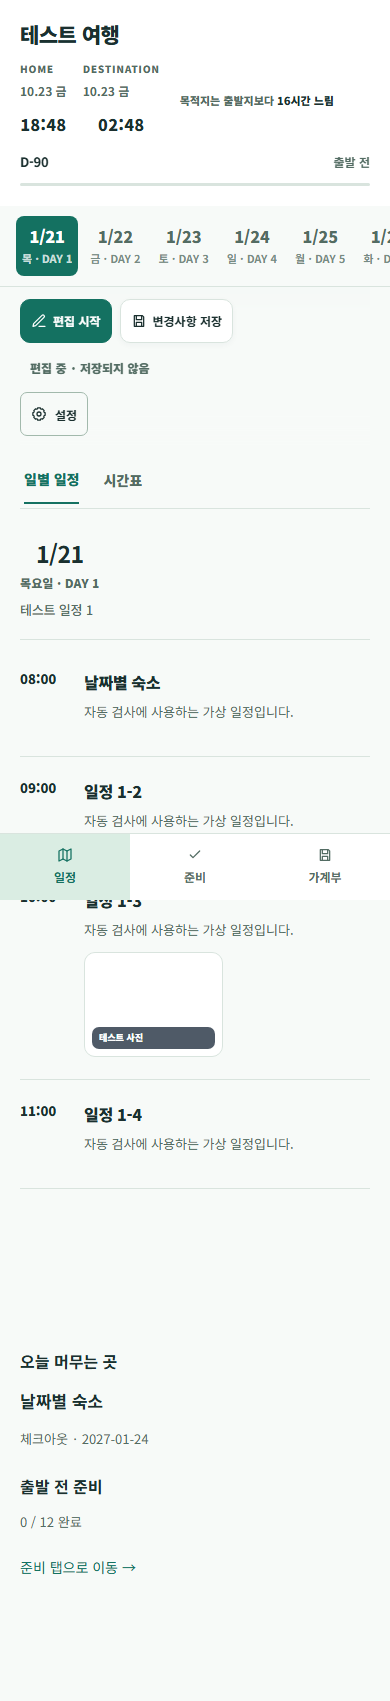
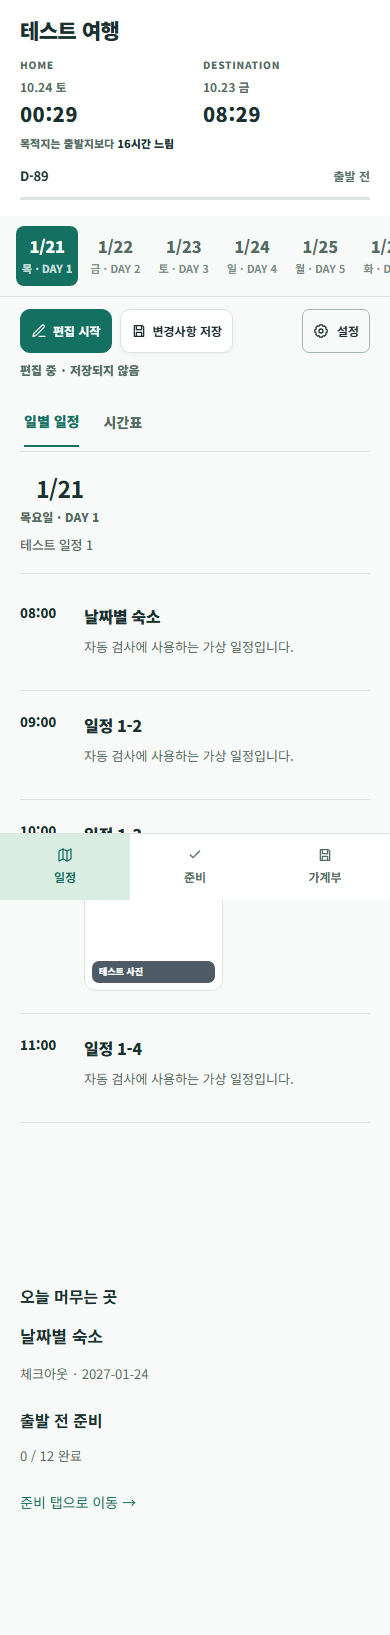
fix: repair Daylight mobile layouts

diff --git a/ui-preview/daylight-after.html b/ui-preview/daylight-after.html
@@ -1,6 +1,6 @@
 <!doctype html>
 <html lang="ko" data-offline="true" data-theme-scope="/daylight-compare/a2c796346162/after/">
-<head><meta name="robots" content="noindex,nofollow"><meta name="comparison-source" content="746c729d28bb"><meta name="comparison-fixture" content="a2c796346162">
+<head><meta name="robots" content="noindex,nofollow"><meta name="comparison-source" content="c0b5de5e73e7"><meta name="comparison-fixture" content="a2c796346162">
 <meta charset="utf-8">
 <meta name="viewport" content="width=device-width,initial-scale=1,viewport-fit=cover">
 <meta name="theme-color" content="#142b3d">
@@ -872,7 +872,7 @@ body>header::before,body>header::after,.hero-shell::before,.hero-shell::after{di
 .money-total strong,.money-total small{color:var(--ink)}.money-total small{font-size:12px;font-weight:600}
 .expense-entry .add-expense{background:none;border:0;padding:0;box-shadow:none}
 .add-expense label>span,.expense-filters label>span,.exchange-rate-updated,.exchange-rate>span,.category-total small,.expense-filter-summary{font-size:12px}
-.daylight-settings{order:9;margin-left:0}.editor-bar #status{order:8}.editor-bar #themeStorageStatus{order:10;flex-basis:100%}
+.daylight-settings{order:7;margin-left:auto}.editor-bar #status{order:8}.editor-bar #themeStorageStatus{order:10;flex-basis:100%}
 @media(max-width:1100px){.daylight-content:has(.daylight-priority)>#daylightContext{order:-1;display:block}}
 .timeline-row>.card{grid-column:2}.timeline-row>.time{text-align:left}
 .editing .timeline-row{grid-template-columns:72px minmax(0,1fr)}
@@ -882,12 +882,45 @@ body>header,.hero-shell{background-image:none;text-shadow:none}
 .title{text-shadow:none}.time-gap strong,.time-gap b{color:var(--ink)}
 .day-head h2{border:0;border-radius:0}.day-head p,.checklist label{font-weight:500}.checklist h3{letter-spacing:0;text-transform:none;font-weight:650;font-size:15px}.editor-bar .primary{box-shadow:none}
 @media(min-width:621px) and (max-width:1100px){.expense-entry .add-expense{grid-template-columns:repeat(2,minmax(0,1fr))}.expense-entry .add-expense>label{grid-column:auto}.expense-entry .add-expense>.btn{grid-column:1/-1}.expense-filters{grid-template-columns:repeat(2,minmax(0,1fr))}.expense-filters>label{grid-column:auto}.money-totals{grid-template-columns:repeat(2,minmax(0,1fr))}}
+/* Keep Daylight layout independent of the earlier legacy mobile layers. */
+.expense-entry .add-expense>.btn,.expense-filters button{display:flex;align-items:center;justify-content:center;gap:8px;min-height:44px;box-shadow:none}
+.expense-primary b{white-space:normal;overflow-wrap:anywhere}
+.expense-action{min-width:44px;min-height:44px;height:auto}
+@media(max-width:1100px){
+ .expense{grid-template-columns:minmax(0,1fr)}
+ .expense-primary{grid-template-columns:88px minmax(0,1fr)}
+ .expense-side{min-width:0;flex-wrap:wrap;justify-content:space-between;gap:10px 16px}
+ .expense .expense-amount{min-width:0;text-align:left;overflow-wrap:anywhere}
+ .expense-actions{flex-wrap:wrap;gap:6px;margin-left:auto}
+}
+@media(max-width:620px){
+ body>header{padding:calc(16px + env(safe-area-inset-top)) 20px 16px}
+ .world-clocks{display:grid;grid-template-columns:repeat(2,minmax(0,1fr));align-items:start;gap:8px 16px}
+ .world-clock{flex-direction:column;align-items:flex-start;gap:4px}
+ .world-clock-copy small,.world-clock-copy span{white-space:normal;overflow-wrap:anywhere}
+ .world-clock time{font-size:20px;line-height:1.3}
+ .time-gap{grid-column:1/-1;white-space:normal;text-align:left;padding:0;line-height:1.5}
+ .editor-bar #status{padding:0;line-height:1.5}
+ .daylight-content{padding-top:8px}
+ .expense-entry,.exchange-rate,.expenses-section,.budget-overview,.money-totals{margin-left:0;margin-right:0}
+ .expense-entry .add-expense{grid-template-columns:minmax(0,1fr);gap:12px}
+ .expense-entry .add-expense>label,.expense-entry .add-expense>.btn{grid-column:1;min-width:0}
+ .expense-entry .add-expense input,.expense-entry .add-expense select,.expense-filters input,.expense-filters select{min-width:0;font-size:16px;min-height:44px}
+ .expense-entry .amount-with-currency{grid-template-columns:minmax(0,1fr) 88px}
+ .expense{padding:16px}
+ .expense-primary{display:block}
+ .expense-primary b{display:block;line-height:1.55}
+ .expense-category-badge{margin-top:6px}
+ .expense-side{align-items:flex-start}
+ .expense .expense-amount{flex-basis:100%;font-size:16px}
+ .expense-actions{width:100%;justify-content:flex-end}
+}
 @media print{.panel{background:#fff}body{padding:0;background:white}body::before,.daylight-nav,.daylight-settings,#daylightContext{display:none}.daylight-content{display:block;padding:0}.daylight-content main{width:100%;padding:0}.timeline-row{break-inside:avoid}.day-head{break-after:avoid}.checklist label[data-check-important="true"]>span:first-of-type::before{color:#222}}
 
 </style>
 </head>
 <body class="viewing hydrating">
-<header><div class="hero-shell"><div class="theme-toolbar"><div class="theme-choice"><label for="themeSelect">화면 테마</label><select id="themeSelect" aria-describedby="themeStorageStatus"><option value="light">밝게</option><option value="dark">어둡게</option><option value="system">기기 설정</option></select></div><p id="themeStorageStatus" role="status" hidden></p></div><div class="hero-top"><div class="hero-copy"><span class="hero-kicker">TRIP PLANNER</span><h1 class="title">여행 일정</h1></div><div class="hero-meta"><div class="hero-meta-card hero-meta-dates"><small>TRAVEL DATES</small><strong>여행 기간</strong></div><div class="hero-meta-card"><small>ROUTE</small><strong>여행 경로</strong></div></div></div><div class="world-clocks" aria-label="두 지역 현재 시각"><div class="world-clock"><div class="world-clock-copy"><small>HOME</small><span id="homeDate">날짜 계산 중</span></div><time id="homeClock">--:--</time></div><div class="world-clock"><div class="world-clock-copy"><small>DESTINATION</small><span id="destinationDate">날짜 계산 중</span></div><time id="destinationClock">--:--</time></div><div class="time-gap" id="timeGap">시차 계산 중</div></div><div class="trip-progress" id="tripProgress"><div class="trip-progress-head"><strong id="tripProgressLabel">여행 준비 중</strong><span id="tripProgressMeta">일정을 계산하고 있습니다.</span></div><div class="trip-progress-track" aria-label="여행 진행률" aria-valuemin="0" aria-valuemax="100" aria-valuenow="0" role="progressbar"><i id="tripProgressFill"></i></div></div></div></header><div class="artifact-banner"><strong>Daylight · 비교용 예시</strong><span>편집은 이 비교본에만 보관됩니다.</span><small>7ba5285 · 746c729d28bb · 예시 a2c796346162</small></div>
+<header><div class="hero-shell"><div class="theme-toolbar"><div class="theme-choice"><label for="themeSelect">화면 테마</label><select id="themeSelect" aria-describedby="themeStorageStatus"><option value="light">밝게</option><option value="dark">어둡게</option><option value="system">기기 설정</option></select></div><p id="themeStorageStatus" role="status" hidden></p></div><div class="hero-top"><div class="hero-copy"><span class="hero-kicker">TRIP PLANNER</span><h1 class="title">여행 일정</h1></div><div class="hero-meta"><div class="hero-meta-card hero-meta-dates"><small>TRAVEL DATES</small><strong>여행 기간</strong></div><div class="hero-meta-card"><small>ROUTE</small><strong>여행 경로</strong></div></div></div><div class="world-clocks" aria-label="두 지역 현재 시각"><div class="world-clock"><div class="world-clock-copy"><small>HOME</small><span id="homeDate">날짜 계산 중</span></div><time id="homeClock">--:--</time></div><div class="world-clock"><div class="world-clock-copy"><small>DESTINATION</small><span id="destinationDate">날짜 계산 중</span></div><time id="destinationClock">--:--</time></div><div class="time-gap" id="timeGap">시차 계산 중</div></div><div class="trip-progress" id="tripProgress"><div class="trip-progress-head"><strong id="tripProgressLabel">여행 준비 중</strong><span id="tripProgressMeta">일정을 계산하고 있습니다.</span></div><div class="trip-progress-track" aria-label="여행 진행률" aria-valuemin="0" aria-valuemax="100" aria-valuenow="0" role="progressbar"><i id="tripProgressFill"></i></div></div></div></header><div class="artifact-banner"><strong>Daylight · 비교용 예시</strong><span>편집은 이 비교본에만 보관됩니다.</span><small>5c68244 · c0b5de5e73e7 · 예시 a2c796346162</small></div>
 <script id="tripThemeControls">document.dispatchEvent(new Event('trip-theme-controls-ready'));</script>
 <nav class="tabs" aria-label="여행 날짜"></nav>
 <div class="editor-bar"><button class="primary" data-icon="edit" id="editBtn">편집 시작</button><button class="mode-only edit-only" data-icon="undo" id="undoBtn" disabled>실행 취소</button><button class="mode-only edit-only" data-icon="redo" id="redoBtn" disabled>다시 실행</button><button class="mode-only edit-only" data-icon="plus" id="addTimeBtn">일정 시간 추가</button><button class="mode-only edit-only" data-icon="check" id="addCheckBtn">체크 항목 추가</button><button class="mode-only edit-only danger" data-icon="reset" id="resetBtn">초기화</button><button class="mode-only view-only" data-icon="save" id="saveBtn" disabled>변경사항 저장</button><button class="mode-only view-only online-only" data-icon="upload" id="importBtn" title="오프라인 작업본을 최신 저장본과 비교해 초안으로 불러옵니다.">편집본 불러오기</button><button class="mode-only view-only" data-icon="export" id="exportMenuBtn">내보내기</button><button class="mode-only view-only online-only" data-icon="history" id="versionsBtn">버전 관리</button><button class="session-only" data-icon="logout" id="logoutBtn" type="button">로그아웃</button><button class="operation-only danger" data-icon="reset" id="cancelOperationBtn" type="button">작업 취소</button><span id="status" class="chip" role="status" aria-live="polite">보기 모드</span><input accept="text/html,.html" id="importFileInput" type="file" hidden></div>
@@ -972,7 +1005,7 @@ body>header,.hero-shell{background-image:none;text-shadow:none}
 </section>
 <section class="notice-dialog" id="timetableDetail" hidden aria-modal="true" aria-labelledby="timetableDetailTitle" role="dialog"><div class="notice-card tt-detail-card"><div class="tt-detail-head"><div><small id="timetableDetailMeta"></small><h2 id="timetableDetailTitle"></h2></div><button type="button" id="timetableDetailClose">닫기</button></div><p id="timetableDetailTiming"></p><div class="tt-detail-content" id="timetableDetailContent"></div></div></section>
 <div class="daylight-content"><main id="tripMain" aria-busy="true"></main><aside id="daylightContext" aria-label="여행 확인 사항" hidden></aside></div>
[2 lines of base64/hex data omitted]
 
 <script id="offlineEmbeddedState" type="application/json">null</script>
 <script id="tripAppV4">

diff --git a/ui-preview/daylight-candidate.html b/ui-preview/daylight-candidate.html
@@ -1,6 +1,6 @@
 <!doctype html>
-<html lang="ko" data-offline="true" data-offline-id="746c729d28bb">
-<head><meta name="robots" content="noindex,nofollow"><meta name="daylight-source" content="746c729d28bb">
+<html lang="ko" data-offline="true" data-offline-id="c0b5de5e73e7">
+<head><meta name="robots" content="noindex,nofollow"><meta name="daylight-source" content="c0b5de5e73e7">
 <meta charset="utf-8">
 <meta name="viewport" content="width=device-width,initial-scale=1,viewport-fit=cover">
 <meta name="theme-color" content="#142b3d">
@@ -872,7 +872,7 @@ body>header::before,body>header::after,.hero-shell::before,.hero-shell::after{di
 .money-total strong,.money-total small{color:var(--ink)}.money-total small{font-size:12px;font-weight:600}
 .expense-entry .add-expense{background:none;border:0;padding:0;box-shadow:none}
 .add-expense label>span,.expense-filters label>span,.exchange-rate-updated,.exchange-rate>span,.category-total small,.expense-filter-summary{font-size:12px}
-.daylight-settings{order:9;margin-left:0}.editor-bar #status{order:8}.editor-bar #themeStorageStatus{order:10;flex-basis:100%}
+.daylight-settings{order:7;margin-left:auto}.editor-bar #status{order:8}.editor-bar #themeStorageStatus{order:10;flex-basis:100%}
 @media(max-width:1100px){.daylight-content:has(.daylight-priority)>#daylightContext{order:-1;display:block}}
 .timeline-row>.card{grid-column:2}.timeline-row>.time{text-align:left}
 .editing .timeline-row{grid-template-columns:72px minmax(0,1fr)}
@@ -882,12 +882,45 @@ body>header,.hero-shell{background-image:none;text-shadow:none}
 .title{text-shadow:none}.time-gap strong,.time-gap b{color:var(--ink)}
 .day-head h2{border:0;border-radius:0}.day-head p,.checklist label{font-weight:500}.checklist h3{letter-spacing:0;text-transform:none;font-weight:650;font-size:15px}.editor-bar .primary{box-shadow:none}
 @media(min-width:621px) and (max-width:1100px){.expense-entry .add-expense{grid-template-columns:repeat(2,minmax(0,1fr))}.expense-entry .add-expense>label{grid-column:auto}.expense-entry .add-expense>.btn{grid-column:1/-1}.expense-filters{grid-template-columns:repeat(2,minmax(0,1fr))}.expense-filters>label{grid-column:auto}.money-totals{grid-template-columns:repeat(2,minmax(0,1fr))}}
+/* Keep Daylight layout independent of the earlier legacy mobile layers. */
+.expense-entry .add-expense>.btn,.expense-filters button{display:flex;align-items:center;justify-content:center;gap:8px;min-height:44px;box-shadow:none}
+.expense-primary b{white-space:normal;overflow-wrap:anywhere}
+.expense-action{min-width:44px;min-height:44px;height:auto}
+@media(max-width:1100px){
+ .expense{grid-template-columns:minmax(0,1fr)}
+ .expense-primary{grid-template-columns:88px minmax(0,1fr)}
+ .expense-side{min-width:0;flex-wrap:wrap;justify-content:space-between;gap:10px 16px}
+ .expense .expense-amount{min-width:0;text-align:left;overflow-wrap:anywhere}
+ .expense-actions{flex-wrap:wrap;gap:6px;margin-left:auto}
+}
+@media(max-width:620px){
+ body>header{padding:calc(16px + env(safe-area-inset-top)) 20px 16px}
+ .world-clocks{display:grid;grid-template-columns:repeat(2,minmax(0,1fr));align-items:start;gap:8px 16px}
+ .world-clock{flex-direction:column;align-items:flex-start;gap:4px}
+ .world-clock-copy small,.world-clock-copy span{white-space:normal;overflow-wrap:anywhere}
+ .world-clock time{font-size:20px;line-height:1.3}
+ .time-gap{grid-column:1/-1;white-space:normal;text-align:left;padding:0;line-height:1.5}
+ .editor-bar #status{padding:0;line-height:1.5}
+ .daylight-content{padding-top:8px}
+ .expense-entry,.exchange-rate,.expenses-section,.budget-overview,.money-totals{margin-left:0;margin-right:0}
+ .expense-entry .add-expense{grid-template-columns:minmax(0,1fr);gap:12px}
+ .expense-entry .add-expense>label,.expense-entry .add-expense>.btn{grid-column:1;min-width:0}
+ .expense-entry .add-expense input,.expense-entry .add-expense select,.expense-filters input,.expense-filters select{min-width:0;font-size:16px;min-height:44px}
+ .expense-entry .amount-with-currency{grid-template-columns:minmax(0,1fr) 88px}
+ .expense{padding:16px}
+ .expense-primary{display:block}
+ .expense-primary b{display:block;line-height:1.55}
+ .expense-category-badge{margin-top:6px}
+ .expense-side{align-items:flex-start}
+ .expense .expense-amount{flex-basis:100%;font-size:16px}
+ .expense-actions{width:100%;justify-content:flex-end}
+}
 @media print{.panel{background:#fff}body{padding:0;background:white}body::before,.daylight-nav,.daylight-settings,#daylightContext{display:none}.daylight-content{display:block;padding:0}.daylight-content main{width:100%;padding:0}.timeline-row{break-inside:avoid}.day-head{break-after:avoid}.checklist label[data-check-important="true"]>span:first-of-type::before{color:#222}}
 
 </style>
 </head>
 <body class="viewing hydrating">
-<header><div class="hero-shell"><div class="theme-toolbar"><div class="theme-choice"><label for="themeSelect">화면 테마</label><select id="themeSelect" aria-describedby="themeStorageStatus"><option value="light">밝게</option><option value="dark">어둡게</option><option value="system">기기 설정</option></select></div><p id="themeStorageStatus" role="status" hidden></p></div><div class="hero-top"><div class="hero-copy"><span class="hero-kicker">TRIP PLANNER</span><h1 class="title">여행 일정</h1></div><div class="hero-meta"><div class="hero-meta-card hero-meta-dates"><small>TRAVEL DATES</small><strong>여행 기간</strong></div><div class="hero-meta-card"><small>ROUTE</small><strong>여행 경로</strong></div></div></div><div class="world-clocks" aria-label="두 지역 현재 시각"><div class="world-clock"><div class="world-clock-copy"><small>HOME</small><span id="homeDate">날짜 계산 중</span></div><time id="homeClock">--:--</time></div><div class="world-clock"><div class="world-clock-copy"><small>DESTINATION</small><span id="destinationDate">날짜 계산 중</span></div><time id="destinationClock">--:--</time></div><div class="time-gap" id="timeGap">시차 계산 중</div></div><div class="trip-progress" id="tripProgress"><div class="trip-progress-head"><strong id="tripProgressLabel">여행 준비 중</strong><span id="tripProgressMeta">일정을 계산하고 있습니다.</span></div><div class="trip-progress-track" aria-label="여행 진행률" aria-valuemin="0" aria-valuemax="100" aria-valuenow="0" role="progressbar"><i id="tripProgressFill"></i></div></div></div></header><div class="artifact-banner"><strong>기능 검토본 · 예시 데이터</strong><span>변경은 이 브라우저에만 보관됩니다. 공유 저장·로그인은 로컬 가상 API 검사로 검증합니다.</span><small>기준 1b5c66a · 후보 746c729d28bb · fixture 1</small></div>
+<header><div class="hero-shell"><div class="theme-toolbar"><div class="theme-choice"><label for="themeSelect">화면 테마</label><select id="themeSelect" aria-describedby="themeStorageStatus"><option value="light">밝게</option><option value="dark">어둡게</option><option value="system">기기 설정</option></select></div><p id="themeStorageStatus" role="status" hidden></p></div><div class="hero-top"><div class="hero-copy"><span class="hero-kicker">TRIP PLANNER</span><h1 class="title">여행 일정</h1></div><div class="hero-meta"><div class="hero-meta-card hero-meta-dates"><small>TRAVEL DATES</small><strong>여행 기간</strong></div><div class="hero-meta-card"><small>ROUTE</small><strong>여행 경로</strong></div></div></div><div class="world-clocks" aria-label="두 지역 현재 시각"><div class="world-clock"><div class="world-clock-copy"><small>HOME</small><span id="homeDate">날짜 계산 중</span></div><time id="homeClock">--:--</time></div><div class="world-clock"><div class="world-clock-copy"><small>DESTINATION</small><span id="destinationDate">날짜 계산 중</span></div><time id="destinationClock">--:--</time></div><div class="time-gap" id="timeGap">시차 계산 중</div></div><div class="trip-progress" id="tripProgress"><div class="trip-progress-head"><strong id="tripProgressLabel">여행 준비 중</strong><span id="tripProgressMeta">일정을 계산하고 있습니다.</span></div><div class="trip-progress-track" aria-label="여행 진행률" aria-valuemin="0" aria-valuemax="100" aria-valuenow="0" role="progressbar"><i id="tripProgressFill"></i></div></div></div></header><div class="artifact-banner"><strong>기능 검토본 · 예시 데이터</strong><span>변경은 이 브라우저에만 보관됩니다. 공유 저장·로그인은 로컬 가상 API 검사로 검증합니다.</span><small>기준 1f69e6a · 후보 c0b5de5e73e7 · fixture 1</small></div>
 <script id="tripThemeControls">document.dispatchEvent(new Event('trip-theme-controls-ready'));</script>
 <nav class="tabs" aria-label="여행 날짜"></nav>
 <div class="editor-bar"><button class="primary" data-icon="edit" id="editBtn">편집 시작</button><button class="mode-only edit-only" data-icon="undo" id="undoBtn" disabled>실행 취소</button><button class="mode-only edit-only" data-icon="redo" id="redoBtn" disabled>다시 실행</button><button class="mode-only edit-only" data-icon="plus" id="addTimeBtn">일정 시간 추가</button><button class="mode-only edit-only" data-icon="check" id="addCheckBtn">체크 항목 추가</button><button class="mode-only edit-only danger" data-icon="reset" id="resetBtn">초기화</button><button class="mode-only view-only" data-icon="save" id="saveBtn" disabled>변경사항 저장</button><button class="mode-only view-only online-only" data-icon="upload" id="importBtn" title="오프라인 작업본을 최신 저장본과 비교해 초안으로 불러옵니다.">편집본 불러오기</button><button class="mode-only view-only" data-icon="export" id="exportMenuBtn">내보내기</button><button class="mode-only view-only online-only" data-icon="history" id="versionsBtn">버전 관리</button><button class="session-only" data-icon="logout" id="logoutBtn" type="button">로그아웃</button><button class="operation-only danger" data-icon="reset" id="cancelOperationBtn" type="button">작업 취소</button><span id="status" class="chip" role="status" aria-live="polite">보기 모드</span><input accept="text/html,.html" id="importFileInput" type="file" hidden></div>
@@ -972,7 +1005,7 @@ body>header,.hero-shell{background-image:none;text-shadow:none}
 </section>
 <section class="notice-dialog" id="timetableDetail" hidden aria-modal="true" aria-labelledby="timetableDetailTitle" role="dialog"><div class="notice-card tt-detail-card"><div class="tt-detail-head"><div><small id="timetableDetailMeta"></small><h2 id="timetableDetailTitle"></h2></div><button type="button" id="timetableDetailClose">닫기</button></div><p id="timetableDetailTiming"></p><div class="tt-detail-content" id="timetableDetailContent"></div></div></section>
 <div class="daylight-content"><main id="tripMain" aria-busy="true"></main><aside id="daylightContext" aria-label="여행 확인 사항" hidden></aside></div>
[2 lines of base64/hex data omitted]
 
 <script id="offlineEmbeddedState" type="application/json">null</script>
 <script id="tripAppV4">

diff --git a/daylight/index.html b/daylight/index.html
@@ -1,6 +1,6 @@
 <!doctype html>
 <html lang="ko" data-offline="false">
-<head><meta name="daylight-live-source" content="746c729d28bb">
+<head><meta name="daylight-live-source" content="c0b5de5e73e7">
 <meta charset="utf-8">
 <meta name="viewport" content="width=device-width,initial-scale=1,viewport-fit=cover">
 <meta name="theme-color" content="#142b3d">
@@ -872,7 +872,7 @@ body>header::before,body>header::after,.hero-shell::before,.hero-shell::after{di
 .money-total strong,.money-total small{color:var(--ink)}.money-total small{font-size:12px;font-weight:600}
 .expense-entry .add-expense{background:none;border:0;padding:0;box-shadow:none}
 .add-expense label>span,.expense-filters label>span,.exchange-rate-updated,.exchange-rate>span,.category-total small,.expense-filter-summary{font-size:12px}
-.daylight-settings{order:9;margin-left:0}.editor-bar #status{order:8}.editor-bar #themeStorageStatus{order:10;flex-basis:100%}
+.daylight-settings{order:7;margin-left:auto}.editor-bar #status{order:8}.editor-bar #themeStorageStatus{order:10;flex-basis:100%}
 @media(max-width:1100px){.daylight-content:has(.daylight-priority)>#daylightContext{order:-1;display:block}}
 .timeline-row>.card{grid-column:2}.timeline-row>.time{text-align:left}
 .editing .timeline-row{grid-template-columns:72px minmax(0,1fr)}
@@ -882,6 +882,39 @@ body>header,.hero-shell{background-image:none;text-shadow:none}
 .title{text-shadow:none}.time-gap strong,.time-gap b{color:var(--ink)}
 .day-head h2{border:0;border-radius:0}.day-head p,.checklist label{font-weight:500}.checklist h3{letter-spacing:0;text-transform:none;font-weight:650;font-size:15px}.editor-bar .primary{box-shadow:none}
 @media(min-width:621px) and (max-width:1100px){.expense-entry .add-expense{grid-template-columns:repeat(2,minmax(0,1fr))}.expense-entry .add-expense>label{grid-column:auto}.expense-entry .add-expense>.btn{grid-column:1/-1}.expense-filters{grid-template-columns:repeat(2,minmax(0,1fr))}.expense-filters>label{grid-column:auto}.money-totals{grid-template-columns:repeat(2,minmax(0,1fr))}}
+/* Keep Daylight layout independent of the earlier legacy mobile layers. */
+.expense-entry .add-expense>.btn,.expense-filters button{display:flex;align-items:center;justify-content:center;gap:8px;min-height:44px;box-shadow:none}
+.expense-primary b{white-space:normal;overflow-wrap:anywhere}
+.expense-action{min-width:44px;min-height:44px;height:auto}
+@media(max-width:1100px){
+ .expense{grid-template-columns:minmax(0,1fr)}
+ .expense-primary{grid-template-columns:88px minmax(0,1fr)}
+ .expense-side{min-width:0;flex-wrap:wrap;justify-content:space-between;gap:10px 16px}
+ .expense .expense-amount{min-width:0;text-align:left;overflow-wrap:anywhere}
+ .expense-actions{flex-wrap:wrap;gap:6px;margin-left:auto}
+}
+@media(max-width:620px){
+ body>header{padding:calc(16px + env(safe-area-inset-top)) 20px 16px}
+ .world-clocks{display:grid;grid-template-columns:repeat(2,minmax(0,1fr));align-items:start;gap:8px 16px}
+ .world-clock{flex-direction:column;align-items:flex-start;gap:4px}
+ .world-clock-copy small,.world-clock-copy span{white-space:normal;overflow-wrap:anywhere}
+ .world-clock time{font-size:20px;line-height:1.3}
+ .time-gap{grid-column:1/-1;white-space:normal;text-align:left;padding:0;line-height:1.5}
+ .editor-bar #status{padding:0;line-height:1.5}
+ .daylight-content{padding-top:8px}
+ .expense-entry,.exchange-rate,.expenses-section,.budget-overview,.money-totals{margin-left:0;margin-right:0}
+ .expense-entry .add-expense{grid-template-columns:minmax(0,1fr);gap:12px}
+ .expense-entry .add-expense>label,.expense-entry .add-expense>.btn{grid-column:1;min-width:0}
+ .expense-entry .add-expense input,.expense-entry .add-expense select,.expense-filters input,.expense-filters select{min-width:0;font-size:16px;min-height:44px}
+ .expense-entry .amount-with-currency{grid-template-columns:minmax(0,1fr) 88px}
+ .expense{padding:16px}
+ .expense-primary{display:block}
+ .expense-primary b{display:block;line-height:1.55}
+ .expense-category-badge{margin-top:6px}
+ .expense-side{align-items:flex-start}
+ .expense .expense-amount{flex-basis:100%;font-size:16px}
+ .expense-actions{width:100%;justify-content:flex-end}
+}
 @media print{.panel{background:#fff}body{padding:0;background:white}body::before,.daylight-nav,.daylight-settings,#daylightContext{display:none}.daylight-content{display:block;padding:0}.daylight-content main{width:100%;padding:0}.timeline-row{break-inside:avoid}.day-head{break-after:avoid}.checklist label[data-check-important="true"]>span:first-of-type::before{color:#222}}
 
 </style>

diff --git a/index.html b/index.html
@@ -872,7 +872,7 @@ body>header::before,body>header::after,.hero-shell::before,.hero-shell::after{di
 .money-total strong,.money-total small{color:var(--ink)}.money-total small{font-size:12px;font-weight:600}
 .expense-entry .add-expense{background:none;border:0;padding:0;box-shadow:none}
 .add-expense label>span,.expense-filters label>span,.exchange-rate-updated,.exchange-rate>span,.category-total small,.expense-filter-summary{font-size:12px}
-.daylight-settings{order:9;margin-left:0}.editor-bar #status{order:8}.editor-bar #themeStorageStatus{order:10;flex-basis:100%}
+.daylight-settings{order:7;margin-left:auto}.editor-bar #status{order:8}.editor-bar #themeStorageStatus{order:10;flex-basis:100%}
 @media(max-width:1100px){.daylight-content:has(.daylight-priority)>#daylightContext{order:-1;display:block}}
 .timeline-row>.card{grid-column:2}.timeline-row>.time{text-align:left}
 .editing .timeline-row{grid-template-columns:72px minmax(0,1fr)}
@@ -882,6 +882,39 @@ body>header,.hero-shell{background-image:none;text-shadow:none}
 .title{text-shadow:none}.time-gap strong,.time-gap b{color:var(--ink)}
 .day-head h2{border:0;border-radius:0}.day-head p,.checklist label{font-weight:500}.checklist h3{letter-spacing:0;text-transform:none;font-weight:650;font-size:15px}.editor-bar .primary{box-shadow:none}
 @media(min-width:621px) and (max-width:1100px){.expense-entry .add-expense{grid-template-columns:repeat(2,minmax(0,1fr))}.expense-entry .add-expense>label{grid-column:auto}.expense-entry .add-expense>.btn{grid-column:1/-1}.expense-filters{grid-template-columns:repeat(2,minmax(0,1fr))}.expense-filters>label{grid-column:auto}.money-totals{grid-template-columns:repeat(2,minmax(0,1fr))}}
+/* Keep Daylight layout independent of the earlier legacy mobile layers. */
+.expense-entry .add-expense>.btn,.expense-filters button{display:flex;align-items:center;justify-content:center;gap:8px;min-height:44px;box-shadow:none}
+.expense-primary b{white-space:normal;overflow-wrap:anywhere}
+.expense-action{min-width:44px;min-height:44px;height:auto}
+@media(max-width:1100px){
+ .expense{grid-template-columns:minmax(0,1fr)}
+ .expense-primary{grid-template-columns:88px minmax(0,1fr)}
+ .expense-side{min-width:0;flex-wrap:wrap;justify-content:space-between;gap:10px 16px}
+ .expense .expense-amount{min-width:0;text-align:left;overflow-wrap:anywhere}
+ .expense-actions{flex-wrap:wrap;gap:6px;margin-left:auto}
+}
+@media(max-width:620px){
+ body>header{padding:calc(16px + env(safe-area-inset-top)) 20px 16px}
+ .world-clocks{display:grid;grid-template-columns:repeat(2,minmax(0,1fr));align-items:start;gap:8px 16px}
+ .world-clock{flex-direction:column;align-items:flex-start;gap:4px}
+ .world-clock-copy small,.world-clock-copy span{white-space:normal;overflow-wrap:anywhere}
+ .world-clock time{font-size:20px;line-height:1.3}
+ .time-gap{grid-column:1/-1;white-space:normal;text-align:left;padding:0;line-height:1.5}
+ .editor-bar #status{padding:0;line-height:1.5}
+ .daylight-content{padding-top:8px}
+ .expense-entry,.exchange-rate,.expenses-section,.budget-overview,.money-totals{margin-left:0;margin-right:0}
+ .expense-entry .add-expense{grid-template-columns:minmax(0,1fr);gap:12px}
+ .expense-entry .add-expense>label,.expense-entry .add-expense>.btn{grid-column:1;min-width:0}
+ .expense-entry .add-expense input,.expense-entry .add-expense select,.expense-filters input,.expense-filters select{min-width:0;font-size:16px;min-height:44px}
+ .expense-entry .amount-with-currency{grid-template-columns:minmax(0,1fr) 88px}
+ .expense{padding:16px}
+ .expense-primary{display:block}
+ .expense-primary b{display:block;line-height:1.55}
+ .expense-category-badge{margin-top:6px}
+ .expense-side{align-items:flex-start}
+ .expense .expense-amount{flex-basis:100%;font-size:16px}
+ .expense-actions{width:100%;justify-content:flex-end}
+}
 @media print{.panel{background:#fff}body{padding:0;background:white}body::before,.daylight-nav,.daylight-settings,#daylightContext{display:none}.daylight-content{display:block;padding:0}.daylight-content main{width:100%;padding:0}.timeline-row{break-inside:avoid}.day-head{break-after:avoid}.checklist label[data-check-important="true"]>span:first-of-type::before{color:#222}}
 
 </style>

diff --git a/ui-preview/daylight-compare.html b/ui-preview/daylight-compare.html
@@ -23,6 +23,6 @@
  </div>
  <details><summary>비교 범위와 버전 정보</summary><p>체크·편집·파일 내보내기를 각 버전에서 시험할 수 있습니다. 로그인·공유 저장·동시 편집은 서버를 연결하지 않은 이 비교본에서 재현하지 않습니다. 중요 표시·날짜별 숙소는 Daylight에만 있는 기능입니다.</p><p>각 버전의 편집은 분리됩니다. “새 예시로 시작”은 양쪽을 새 비교 공간으로 열며, 운영 저장소를 지우지 않습니다. 예시 사진은 비교용 자리 표시입니다.</p><p id="versionInfo"></p></details>
 </main>
-<script id="comparisonManifest" type="application/json">{"fixture":2,"fixtureHash":"a2c796346162","baseline":"22ecee308d3019cf6303a3d464013ea7172e4d6c","candidate":"7ba5285b2d4cbb1fb4830265b7cb60527efa61d8","beforeHash":"ae302c9f6d7c","afterHash":"746c729d28bb"}</script>
+<script id="comparisonManifest" type="application/json">{"fixture":2,"fixtureHash":"a2c796346162","baseline":"22ecee308d3019cf6303a3d464013ea7172e4d6c","candidate":"5c682449c4f36a9092ff5bc62dbf5d8a55c40136","beforeHash":"ae302c9f6d7c","afterHash":"c0b5de5e73e7"}</script>
 <script src="daylight-compare.js"></script>
 </body></html>

diff --git a/docs/OPERATIONS_KO.md b/docs/OPERATIONS_KO.md
@@ -455,6 +455,7 @@ node scripts/build-ui-preview.mjs
 
 - 후보 브랜치에서 `node scripts/build-daylight-live.mjs`를 실행한다. 생성한 `daylight/`는 직접 편집하지 않으며 후보 코드·설정·PWA·기본 이미지가 바뀌면 다시 생성한다. 소스 LF 해시는 생성 HTML의 `daylight-live-source` 메타에 기록된다.
 - `node scripts/check-daylight-live-browser.mjs`는 기준 기존 코드에 호환 패치를 적용하여 두 화면의 공유 저장·중요 표시 보존·숙박 날짜 보존·동시 목록 충돌을 가상 서버로 검증한다. 실제 API에 쓰지 않는다. Git 기준 커밋 `22ecee3`이 필요하므로 브라우저 CI는 전체 이력을 가져온다.
+- `node scripts/check-daylight-layout-browser.mjs`는 후보와 생성된 병행 앱을 합성 자료로 열어 320·360·390·520·540·620·621·768·1100·1280·1440px에서 일정·준비·가계부를 검사한다. 긴 한글·영문 지출명과 큰 금액을 넣어 행 내부 잘림·텍스트와 버튼 겹침·44px 터치 영역·입력 글자 크기·설정 메뉴 경계를 확인한다. Chromium의 모바일 터치 에뮬레이션이며 실제 휴대폰·삼성 인터넷 검증을 대신하지 않는다. 캡처 경로는 실행 결과에 출력하며 전체 브라우저 검사에도 포함된다.
 - PowerShell에서 `$env:DAYLIGHT_LIVE='1'; node scripts/check-pwa-browser.mjs`로 `/trip/daylight/`의 설치 조건·오프라인 재열기·테마·온라인 갱신을 검증한다. 검사 후 `Remove-Item Env:DAYLIGHT_LIVE`로 해제한다.
 - main 배포에는 생성한 `daylight/` 전체와 기존 루트의 메타데이터 호환 패치를 포함한다. `scripts/daylight-legacy-compat.mjs`의 `preserveDaylightMetadata(legacy,candidate)`로 다섯 함수만 옮기고 diff에서 기존 탐색·화면 유지 여부를 확인한다. 후보 루트 전체를 main으로 덮어쓰지 않는다.
 - Pages 성공 뒤 두 공개 주소가 같은 최신 revision을 읽는지 확인한다. 실제 데이터 쓰기는 시험하지 않는다. 두 사용자의 기존 열린 창·설치 앱을 온라인에서 다시 열어 호환 패치를 적용한다. 되돌릴 때도 이 패치를 유지하고 여행 데이터는 과거본으로 덮어쓰지 않는다.

diff --git a/docs/USER_GUIDE_KO.md b/docs/USER_GUIDE_KO.md
@@ -38,6 +38,7 @@ Daylight의 사용법입니다. 기존 앱과 버튼 위치가 다릅니다.
 - PC 왼쪽·모바일 하단의 주 메뉴에서 일정·준비·가계부를 선택합니다. 일정에서는 날짜와 일별 일정·시간표를 전환합니다. 날짜 이동은 선택 상태만 바꾸며 저장되지 않습니다.
 - 준비를 선택하거나 다시 누르면 맨 위로 이동하고 제목에 포커스를 둡니다. 날짜 탭은 화살표·Home·End로 이동할 수 있습니다.
 - 설정 메뉴는 좁은 화면에서도 도구 모음 안쪽에 열립니다. 설정에서 연 창을 닫으면 `설정` 버튼으로 포커스가 돌아옵니다.
+- 모바일에서는 편집 버튼과 `설정`이 같은 줄에, 저장 상태는 그 아래에 표시됩니다. 가계부의 긴 항목명은 줄바꿈하며 금액과 이동·수정·삭제 버튼은 아래에 나누어 표시됩니다.
 - 헤더에는 서울과 미국 서부의 현재 시각 및 자동 계산된 시차가 표시됩니다.
 - `설정`에서 버전·로그아웃, 파일 불러오기·내보내기, 화면 테마를 찾을 수 있습니다. 편집·저장 버튼과 저장·실패 안내는 설정 밖에 표시됩니다.
 
